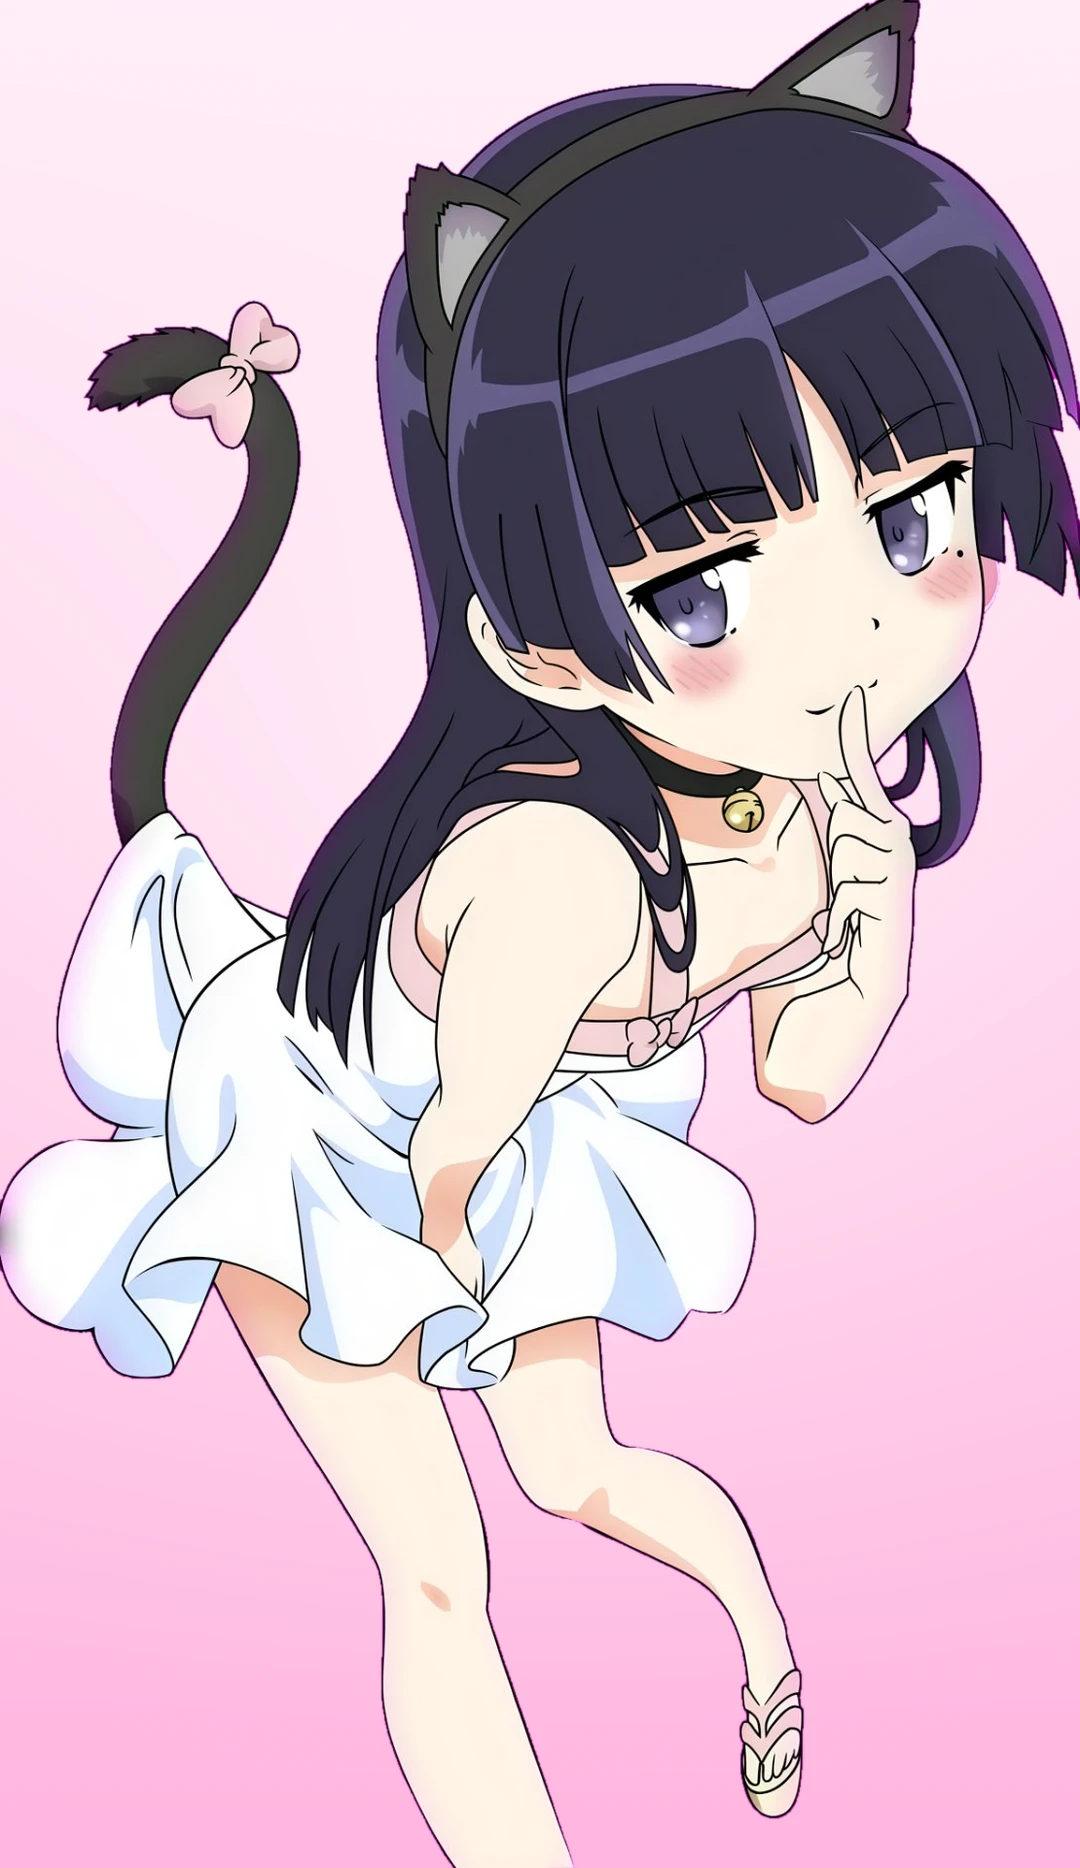
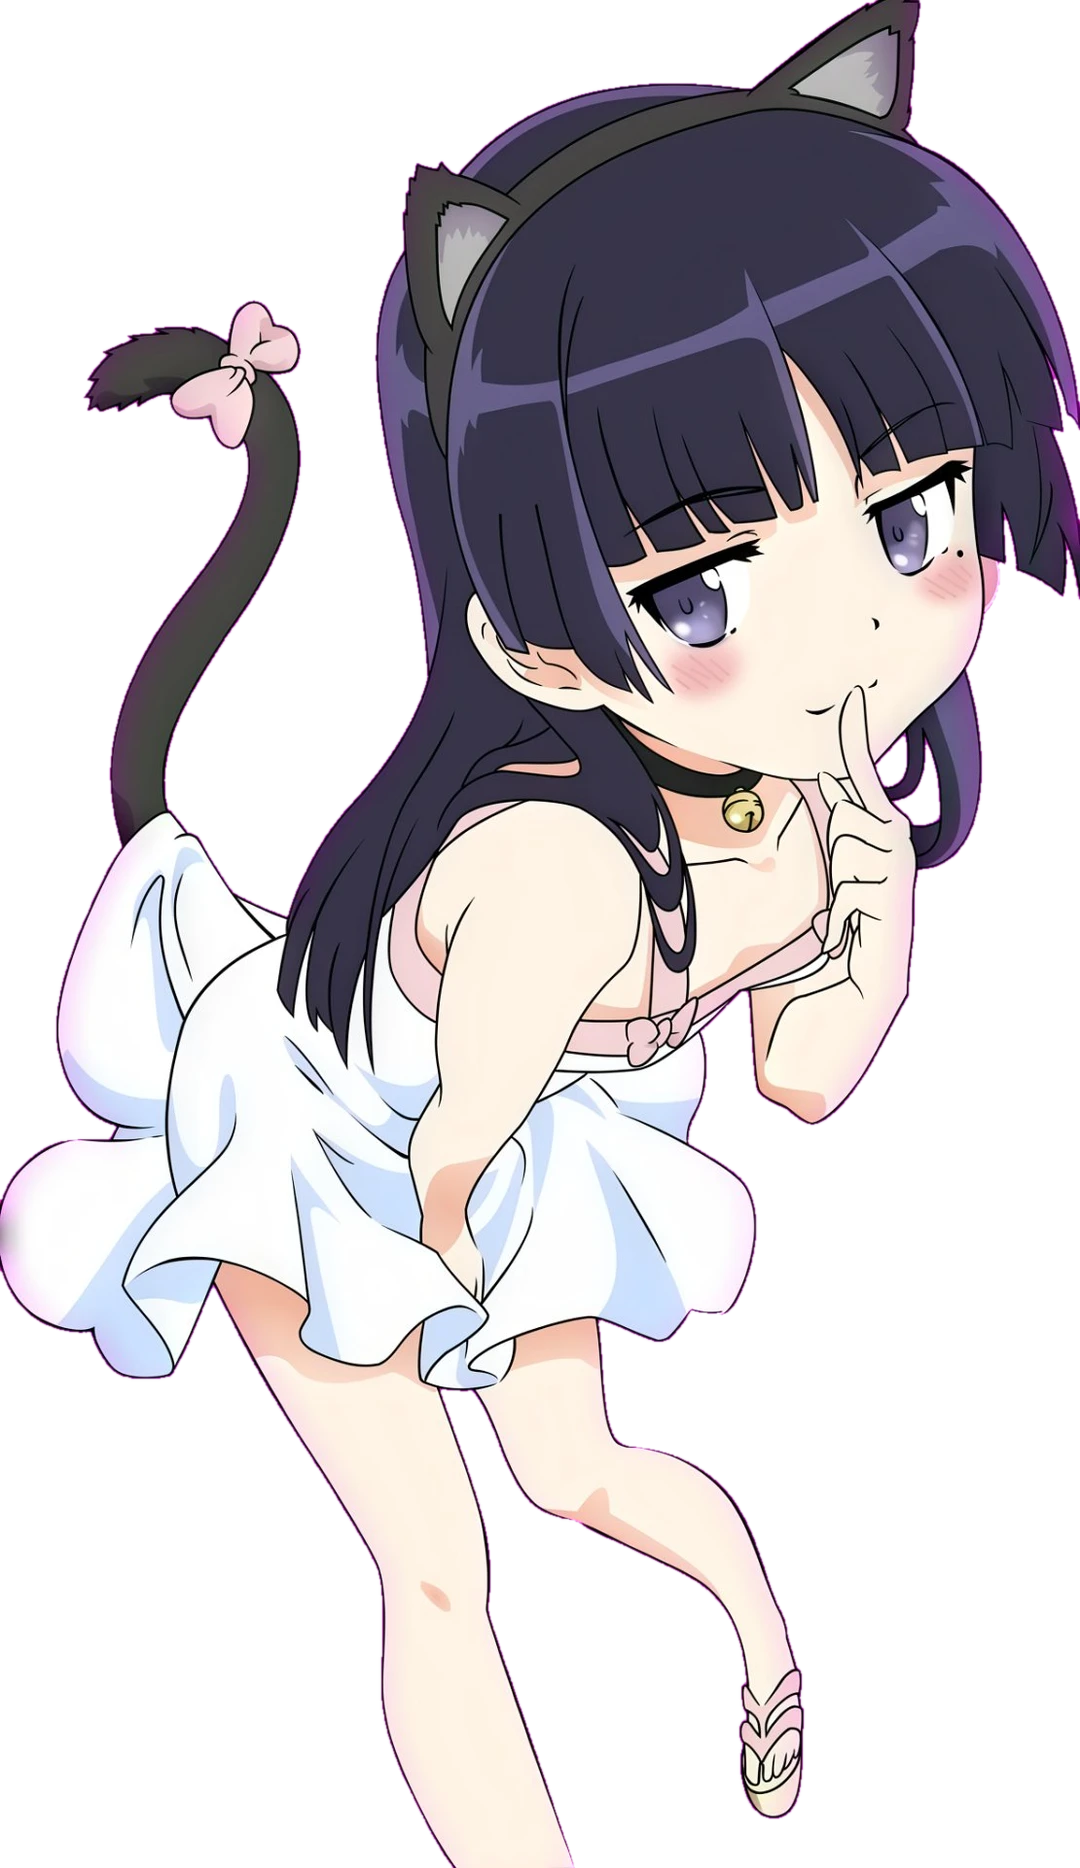
手机壁纸 kuroneko-shh 改为透明底（去掉合成渐变背景），lqip 重算

diff --git a/src/config/blogChangelogConfig.ts b/src/config/blogChangelogConfig.ts
@@ -31,15 +31,15 @@ export interface ChangelogEntry {
 export const blogChangelogConfig: ChangelogEntry[] = [
 	{
 		version: "V1.18",
-		title: "首页贴纸 +11，壁纸池进新图",
+		title: "首页贴纸扩充，壁纸池进两张新图",
 		date: "2026-10-02",
-		summary: "黑猫拍立得挂件九宫格切开做成 10 张新贴纸，壁纸池新增黑猫夏装横图（桌面）与粉底立绘（手机）",
+		summary: "挂件九宫格切开做成 9 张 Q 版贴纸（与单张高清版重复的那张已删），壁纸池新增桌面夏装横图与手机透明底立绘",
 		description:
-			"这批素材是一套黑猫拍立得挂件：九宫格整版切开抠底，出 9 张 Q 版贴纸，加上单张草帽立绘共 10 张进首页贴纸池（桌面端随机抽 10 张的机制不用动坐标，手机端自动装箱）。横版夏装图直接进桌面壁纸轮播；竖版立绘原来是刺眼的品红纯色底，按同色匹配整体抠掉，重新铺了一层柔和的粉渐变加中央柔光再进手机壁纸池 —— 手机端从单图升级成两张轮播。原图照例全部归档：贴纸画稿进「贴纸」相册，两张壁纸原图分别进桌面 / 移动壁纸相册",
+			"这批素材是一套挂件图：九宫格整版切开抠底出 9 张 Q 版贴纸，另有一张单张高清版一起进首页贴纸池（两者同款的那张后来删掉了）。桌面端随机抽 10 张的机制不用动坐标，手机端自动装箱。横版夏装图直接进桌面壁纸轮播；竖版立绘原来是刺眼的品红纯色底，索性按同色匹配整体抠掉、只留透明通道不做替代底，背后交给页面自身底色，浅色深色各自适应 —— 手机端从单图升级成两张轮播。原图照例全部归档：贴纸画稿进「贴纸」相册，两张壁纸原图分别进桌面 / 移动壁纸相册",
 		items: [
 			{
 				category: "素材",
-				text: "首页贴纸 +10：九宫格切出 kirino-sit / kirino-glasses / kirino-maid / kuroneko-hat / kuroneko-swim / kuroneko-maid / ayase-swim / kanako-swim / maid-glasses，外加单张 kuroneko-dress，全部透明底、高 192px、均 8–12KB",
+				text: "首页贴纸新增：九宫格切出 kirino-sit / kirino-glasses / kirino-maid / kuroneko-swim / kuroneko-maid / ayase-swim / kanako-swim / maid-glasses，外加单张 kuroneko-dress，全部透明底、高 192px、均 8–12KB",
 			},
 			{
 				category: "壁纸",
@@ -47,7 +47,7 @@ export const blogChangelogConfig: ChangelogEntry[] = [
 			},
 			{
 				category: "壁纸",
-				text: "手机壁纸池新增 kuroneko-shh：品红纯色底整体抠掉后换成柔和粉渐变 + 中央柔光（1080 宽 q90 约 134KB）；mobile 配置从单图字符串升级为两张数组，手机端开始走轮播",
+				text: "手机壁纸池新增 kuroneko-shh：把刺眼的品红纯色底整体抠掉，直接保留透明通道（1080 宽 q90 约 194KB），背后露出的是页面底色，浅色/深色模式各自适应；mobile 配置从单图字符串升级为两张数组，手机端开始走轮播",
 			},
 			{
 				category: "素材",
